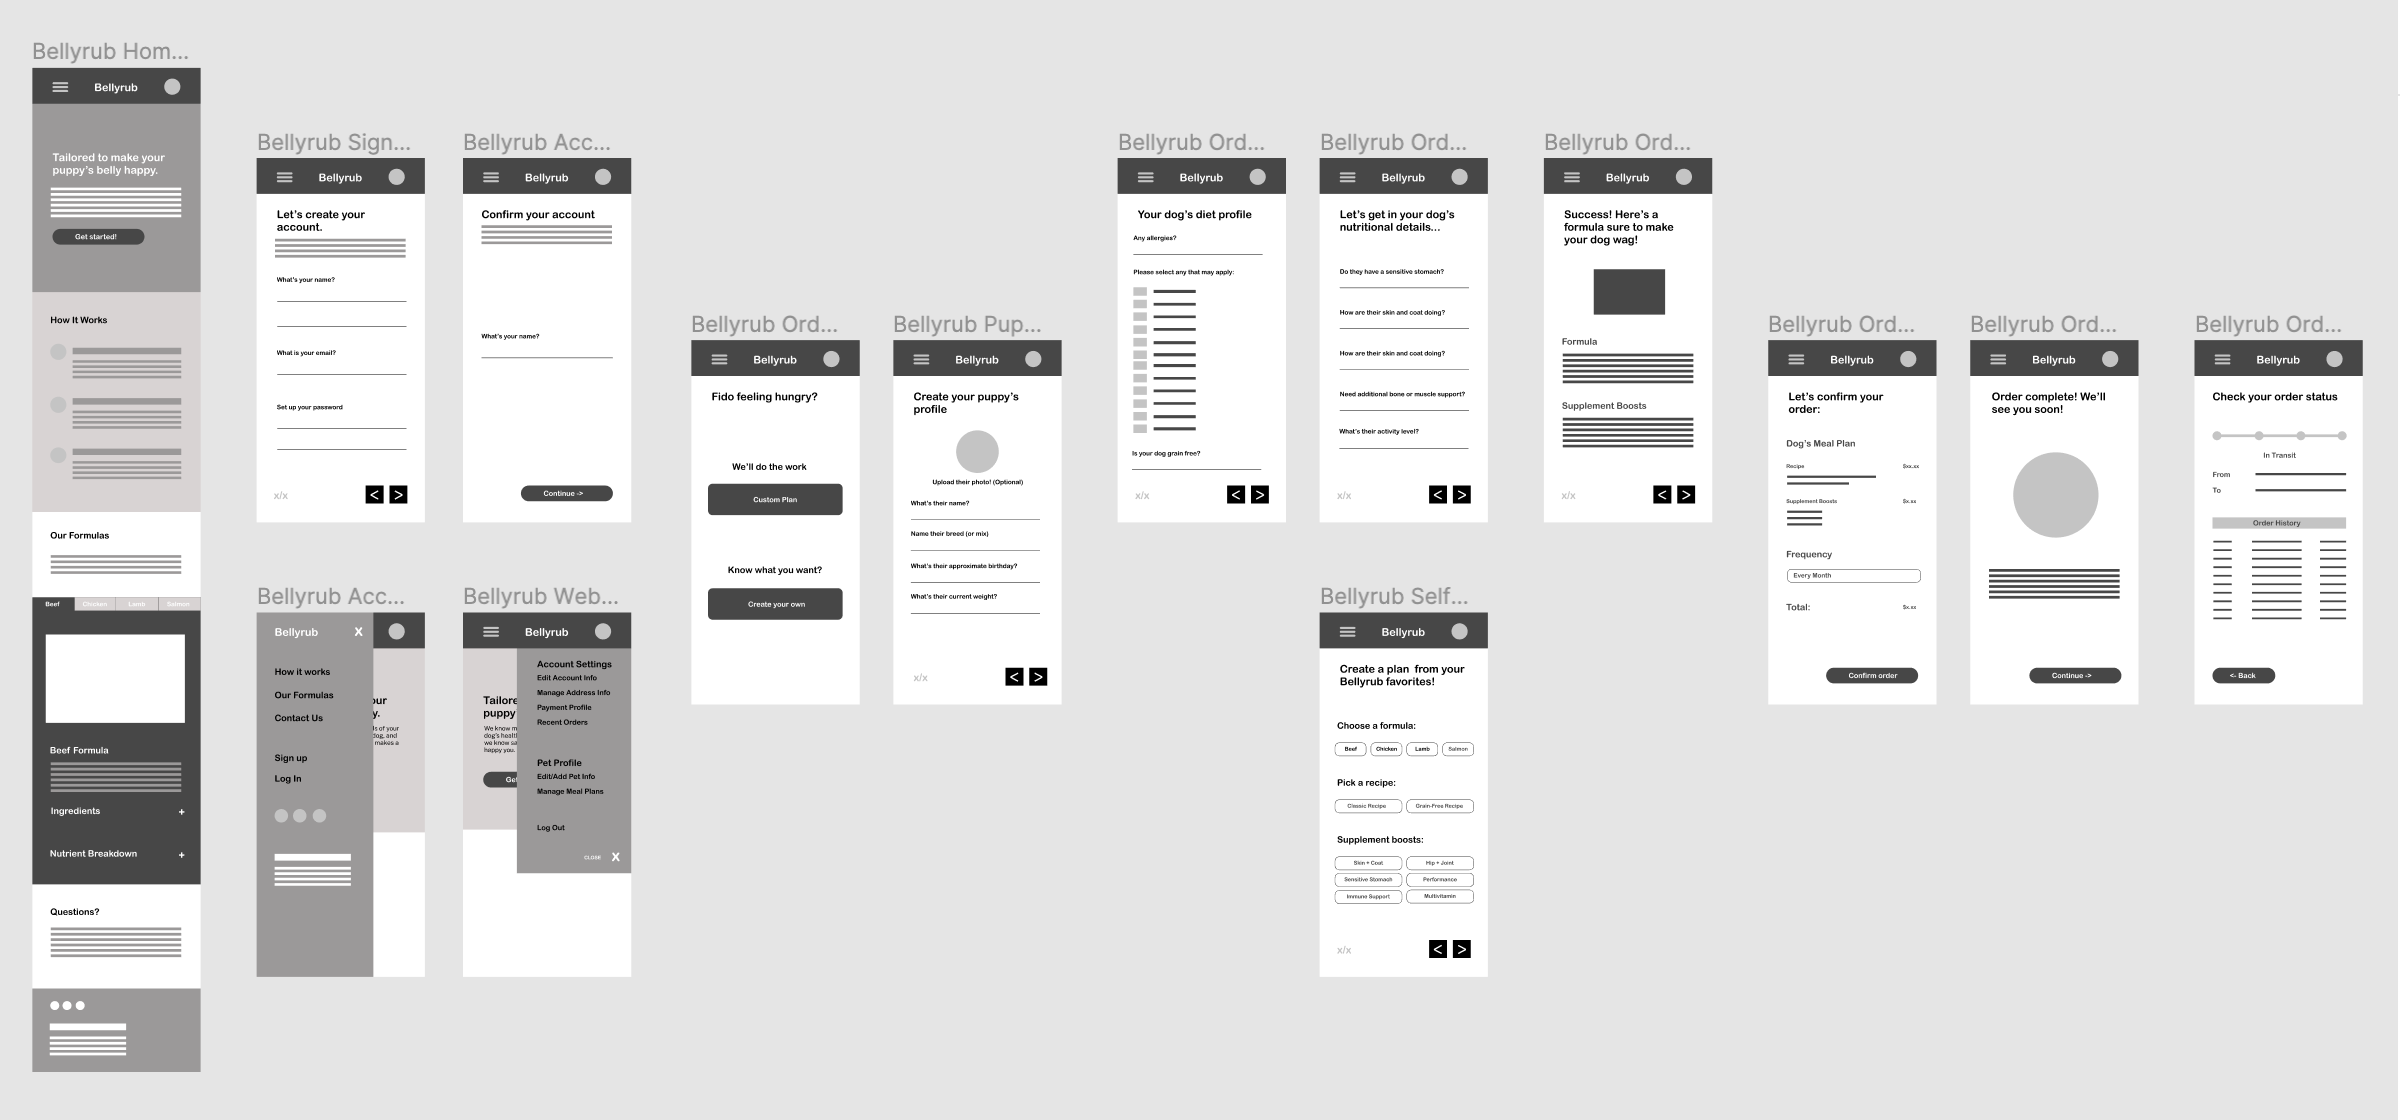
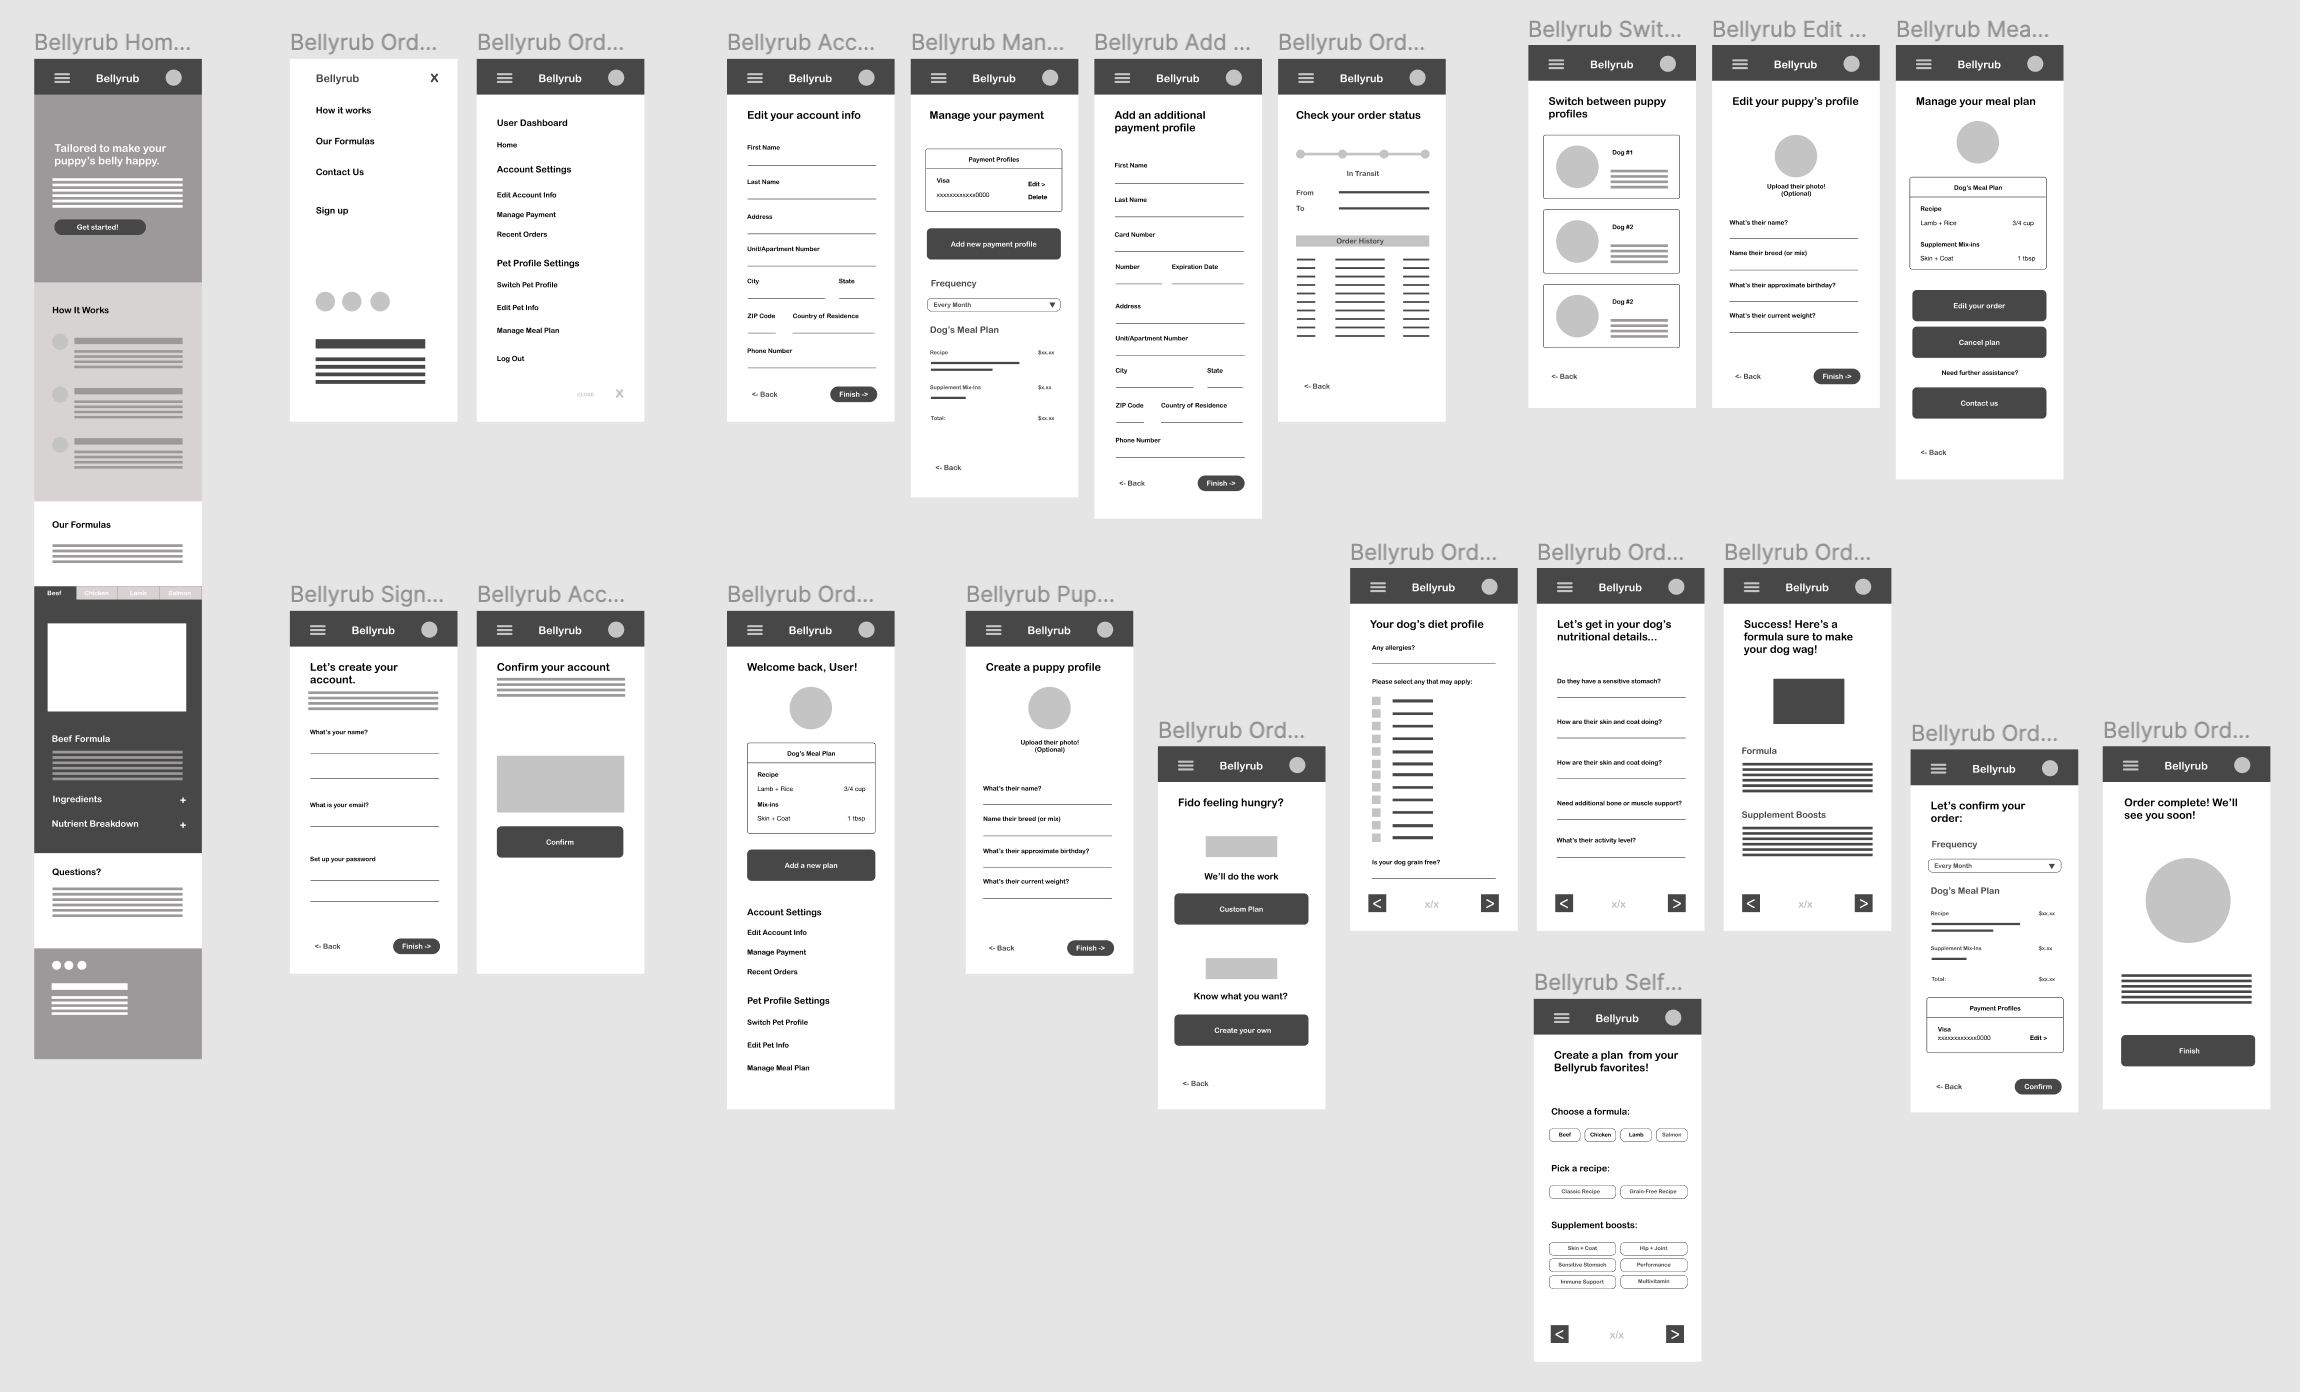
br

diff --git a/portfolio/bellyrub.html b/portfolio/bellyrub.html
@@ -186,7 +186,7 @@
                                             <div class="project-row">
                                                 <div class="row justify-content-center" style="padding: 25px;">
 
-                                                    <div class="col-lg-6 project-image animatable fadeInUp">
+                                                    <div class="col-lg-7 project-image animatable fadeInUp">
                                                       <img src="../Bellyrub-userflow.png" alt="Bellyrub Userflow Diagram">
                                                     </div>
 
@@ -201,11 +201,11 @@
                                                             <img src="../Bellyrub-storyboard1.png" alt="Bellyrub Big Picture Storyboard">
                                                           </div>
 
-                                                          </div>
                                                         </div>
+                                                      </div>
 
-                                                        <div class="project-row">
-                                                            <div class="row justify-content-center" style="padding: 25px;">
+                                                      <div class="project-row">
+                                                          <div class="row justify-content-center" style="padding: 25px;">
 
                                                                 <div class="col-lg-6 project-image animatable fadeInUp">
                                                                   <img src="../Bellyrub-storyboard2.png" alt="Bellyrub Close-Up Storyboard">
@@ -233,18 +233,38 @@
                                                                   </div>
                                                                 </div>
 
-
                                                                             <div class="project-row">
                                                                                 <div class="row justify-content-center" style="padding: 25px;">
 
                                                                                     <div class="col-lg-8 project-image animatable fadeInUp">
                                                                                       <img src="../Bellyrub_Wireframe.png" alt="Bellyrub Wireframe">
-                                                                                        <caption><h3><p><strong>Wireframes for the mobile version of the Bellyrub mobile app that feature the homepage, sign up processes, profile creation, order processes, and tracking.</p></h3></caption>
+                                                                                        <caption><h3><p><strong>Wireframes for the mobile version of the Bellyrub mobile app that feature the homepage, sign up process, meal plan creation, pet profiles, and account settings.</p></h3></caption>
                                                                                       </div>
                                                                                     </div>
 
                                                                                     </div>
                                                                                   </div>
+
+
+                                                                                  <div class="project-row">
+                                                                                      <div class="row justify-content-center" style="padding: 25px;">
+
+                                                                                          <div class="col-lg-8 project-image animatable fadeInUp">
+                                                                                              <iframe style="border: 1px solid rgba(0, 0, 0, 0.1);" width="100%" height="600" src="https://www.figma.com/embed?embed_host=share&url=https%3A%2F%2Fwww.figma.com%2Fproto%2FAno33kvTKj0ft7eTMkRXGq%2FBellyrub-Lo-fi-Prototype%3Fnode-id%3D1%253A1463%26scaling%3Dscale-down%26page-id%3D0%253A1" allowfullscreen></iframe>
+                                                                                          </div>
+                                                                                        </div>
+
+                                                                                        
+                                                                                  <div class="project-row">
+                                                                                      <div class="row justify-content-center" style="padding: 25px;">
+
+                                                                                          <div class="col-lg-8 project-image animatable fadeInUp">
+                                                                                              <img src="../Bellyrub_Lofi-Prototype.png" alt="Bellyrub Lofi Proto">
+                                                                                              <caption><h3><p><strong>The very fun and busy-looking interactive elements for the homepage, sign up process, meal plan creation, pet profiles, and account settings</p></h3></caption>
+                                                                                          </div>
+
+                                                                                          </div>
+                                                                                        </div>
 
 
 
